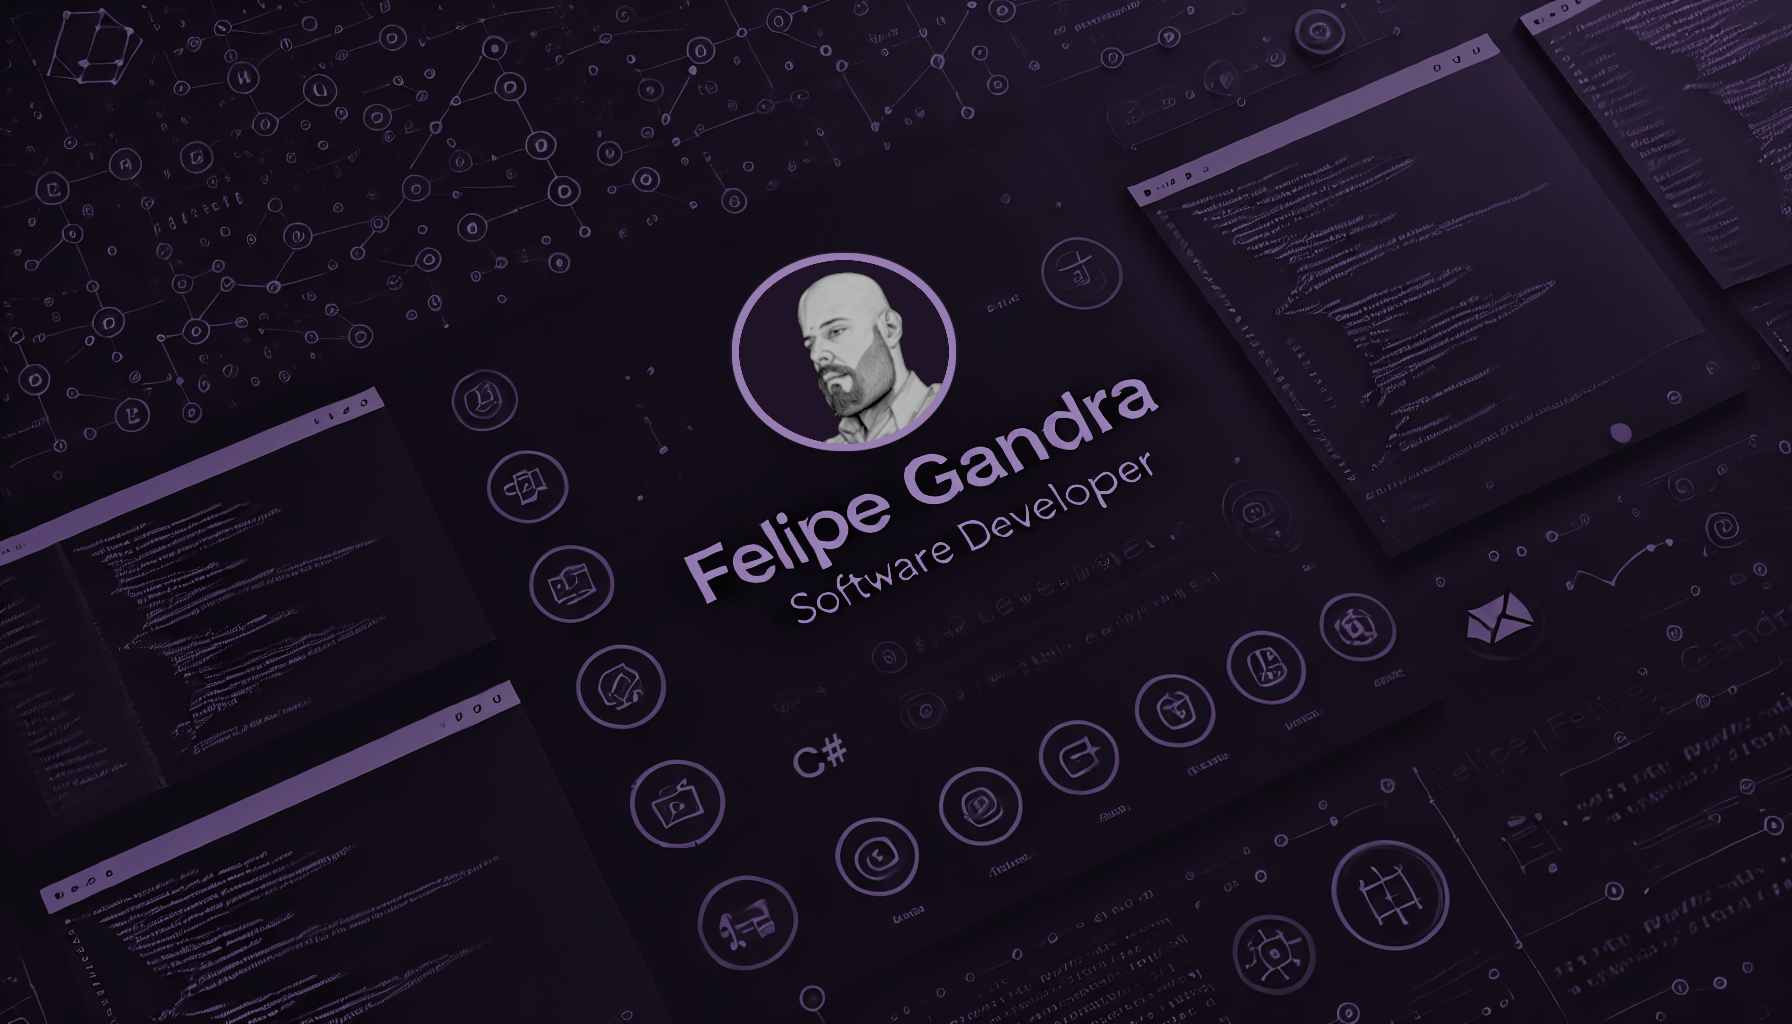
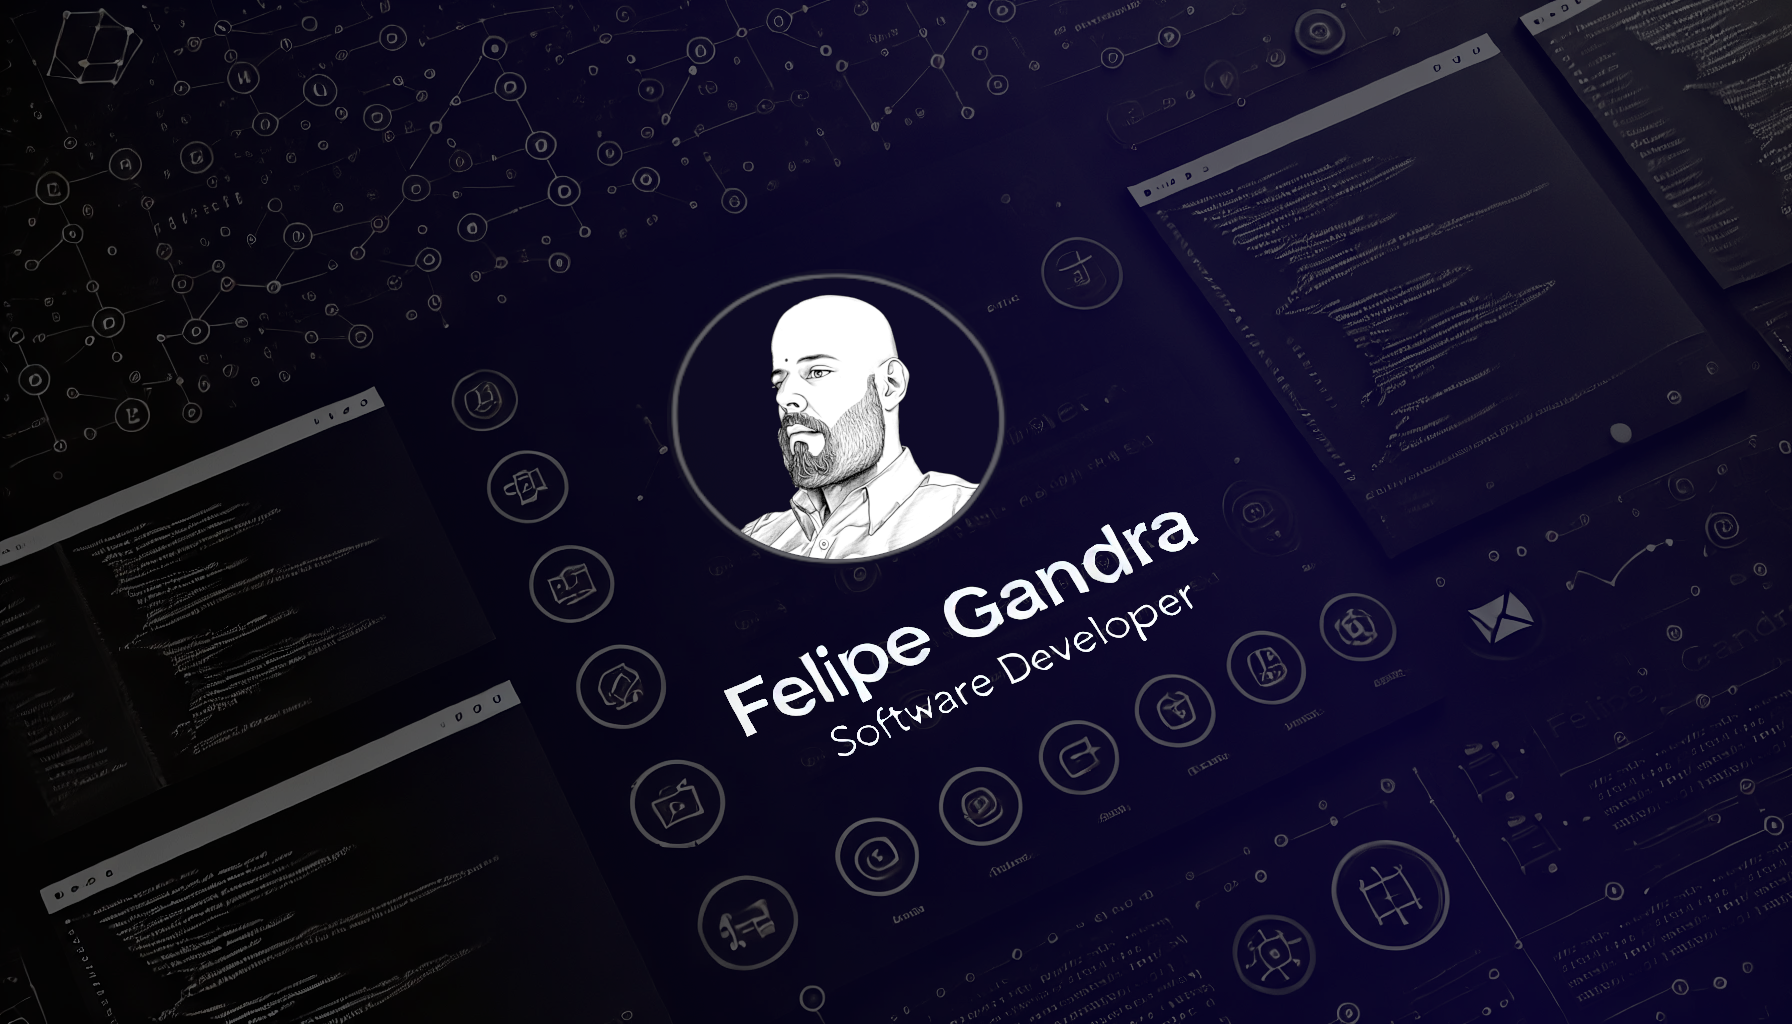
fixed design issues

diff --git a/styles/style_mobile.css b/styles/style_mobile.css
@@ -3,9 +3,7 @@
 @media screen and (max-width: 500px) {
 
     body {
-        background-size:auto 80%;
-        background-position-x: 53%;
-        background-position-y: 50%;
+        background-image: url(../images/bg-mobile.png);
     }
 
     nav{
@@ -30,77 +28,6 @@
         .menu__item:hover{
             .menu__description{ display: none; }
             .menu__icone{ transform: none;}
-        }
-    }
-
-    header{
-
-        #header__content{
-            #section__principal{
-                width: 86%;
-                height: 80vh;
-                left: 7%;
-                right: 7%;
-    
-                #top_left{
-                    position: absolute;
-                    top: 0;
-                    width: 45vw;
-                    height: 6vh;
-                    border-top: 2px solid transparent;
-                    border-left: 2px solid transparent;
-                }
-    
-                #core{
-                    justify-content: center;
-                    text-align: center;
-                    width: 100%;
-                    margin: 0;
-    
-                    #titulo{
-                        font-size: 2.7rem;
-                        text-wrap: nowrap;
-                    }
-            
-                    #subtitulo{
-                        font-size: 1.1rem;
-                        margin-top: 1rem;
-                    }
-                    
-                }
-    
-                #topicos{
-                    align-self: center;
-                    font-size: 0.9rem;
-                    margin: 0;
-                    line-height: 1.5rem;
-                    padding: 0.5rem 2rem;
-    
-                    #topico__item{
-                        text-wrap: wrap;
-                        font-size: 01rem;
-                        text-align: justify;
-                        gap: 3vh;
-                    }
-                }
-    
-                #bottom_right{
-                    position: absolute;
-                    bottom: 0;
-                    right: 10px;
-                    margin-bottom: 2vh;
-                    width: 45vw;
-                    height: 6vh;
-                    border-bottom: 2px solid transparent;
-                    border-right: 2px solid transparent;
-                    
-                    #curriculo__container{
-                        display: none;
-                    }
-                }
-    
-            }
-
         }
     }
 

diff --git a/styles/style_desktop.css b/styles/style_desktop.css
@@ -2,7 +2,7 @@
 
 body {
     background-image: url(../images/bg.png);
-    background-size: 120%;
+    background-size: cover;
     background-position-x: 60%;
     background-attachment: fixed;
     overflow-x: hidden;
@@ -54,7 +54,7 @@ nav {
 
     .menu__item {
         display: grid;
-        grid-template-columns: 30px 150px;
+        grid-template-columns: 30px auto;
         text-wrap: nowrap;
         flex-wrap: nowrap;
         align-items: center;
@@ -63,7 +63,12 @@ nav {
 
     .menu__description {
         color: var(--color-text-emphasy);
-        font-size: 0.8rem;
+        font-size: 0.9rem;
+        font-weight: 600;
+        letter-spacing: 0.1rem;
+        border-bottom: 2px solid transparent;
+        border-image: linear-gradient(to right, white, var(--color-background-primary)) 1;
+        padding-bottom: 0.3rem;
         display: none;
     }
 
@@ -86,8 +91,8 @@ nav {
 }
 
 .blur{
-    backdrop-filter: blur(12px);
-    -webkit-backdrop-filter: blur(12px);
+    backdrop-filter: blur(15px);
+    -webkit-backdrop-filter: blur(15px);
 }
 
 header {
@@ -100,39 +105,6 @@ header {
         width: 100%;
         position: fixed;
         display: flex;
-        justify-content: center;
-        align-items: center;
-
-        #section__principal {
-            display: flex;
-            position: absolute;
-            flex-direction: column;
-            justify-content: space-evenly;
-            height: 70vh;
-            width: 75vw;
-
-            #top_left {
-                width: 25vw;
-                height: 12vh;
-                position: absolute;
-                top: 0;
-                left: 0;
-                border-top: 4px solid transparent;
-                border-left: 4px solid transparent;
-                border-image: radial-gradient(circle, white, var(--color-accent)) 1;
-            }
-
-            #bottom_right {
-                width: 25vw;
-                height: 12vh;
-                border-bottom: 4px solid transparent;
-                border-right: 4px solid transparent;
-                border-image: radial-gradient(circle at bottom right, white, var(--color-accent)) 1;
-                position: absolute;
-                right: 0;
-                bottom: 0;
-            }
-        }
     }
 }
 

diff --git a/index.html b/index.html
@@ -61,32 +61,9 @@
         </div>
     </nav>
 
-    <header>
+    <header id="">
 
         <section id="header__content">
-            <div id="section__principal">
-
-                <div id="top_left"></div>
-
-                <!-- <div id="core">
-                    <div>
-                        <h1 id="titulo">Felipe Gandra</h1>
-                        <h2 id="subtitulo">Desenvolvedor de Sistemas</h2>
-                    </div>
-                </div>
-                <div id="topicos">
-                    <ul id="topico__item">
-                        <li>Estudante de Análise e Desenvolvimento de Sistemas, com formação em Arquitetura e Urbanismo;
-                        </li>
-                        <li>Apaixonado por tecnologia e insaciávelmente curioso;</li>
-                        <li>Com (alguma) experiência em linguagens de programação desde os anos de 1990.</li>
-                        <li><span id="saiba_mais" onclick="openModal('./pages/about.html')">Saiba mais...</span></li>
-                    </ul>
-                </div> -->
-
-                <div id="bottom_right"></div>
-
-            </div>
         </section>
 
 

diff --git a/scripts/scroll_mobile.js b/scripts/scroll_mobile.js
@@ -15,17 +15,13 @@ $(function () {
             
 
             // Hide header when reach main
-            var header = jQuery("#section__principal");
             var headerContent = jQuery("#header__content");
             if (scroll >= window.innerHeight)
             {
-                header.addClass('display-none');
                 headerContent.addClass('blur');
-
             }
             else
             {
-                header.removeClass("display-none");
                 headerContent.removeClass("blur");
             }
 

diff --git a/scripts/scroll_desktop.js b/scripts/scroll_desktop.js
@@ -31,17 +31,14 @@ $(function() {
         
 
             // Hide header when reach main
-            var header = jQuery("#section__principal");
             var headerContent = jQuery("#header__content");
             if (scroll >= window.innerHeight)
             {
-                header.addClass('display-none');
                 headerContent.addClass('blur')
 
             }
             else 
             {
-                header.removeClass("display-none");
                 headerContent.removeClass("blur");
 
             }
